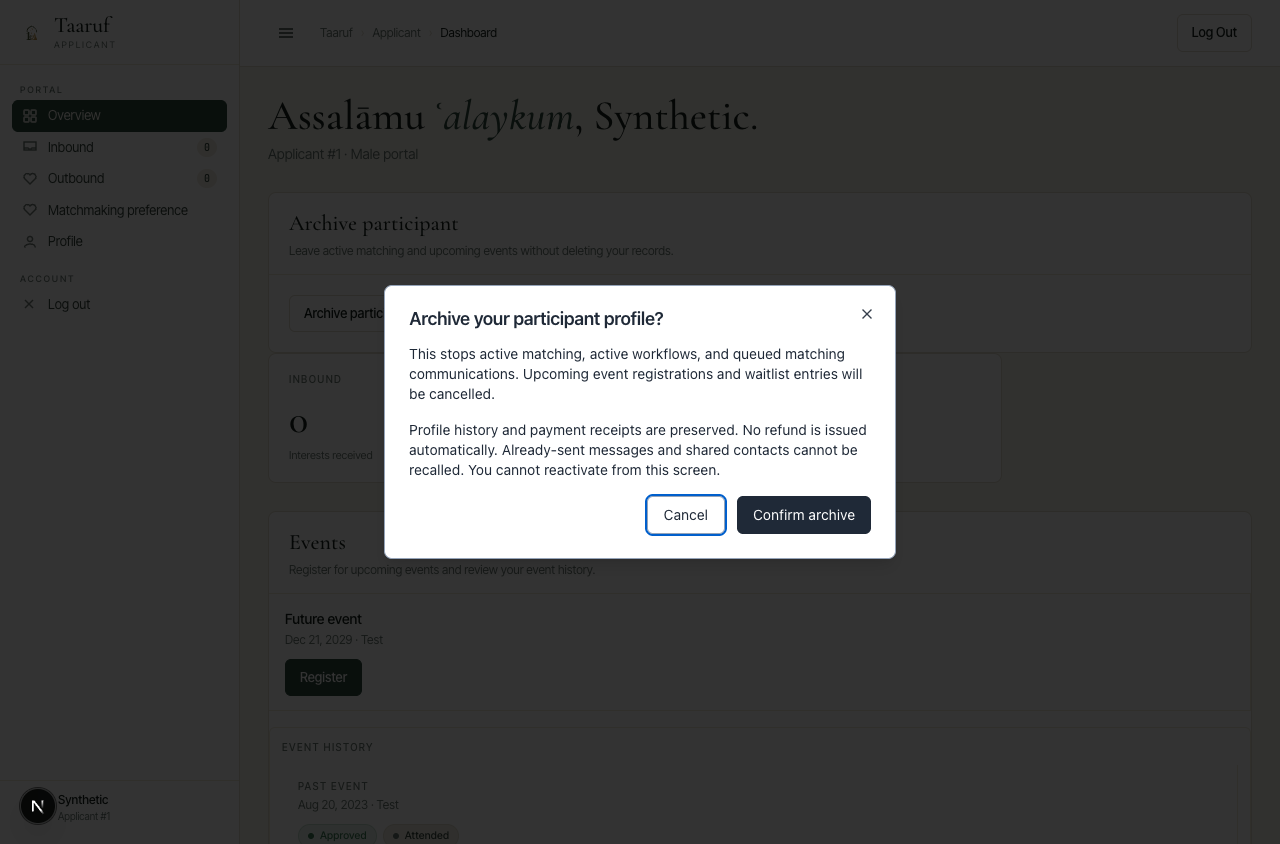
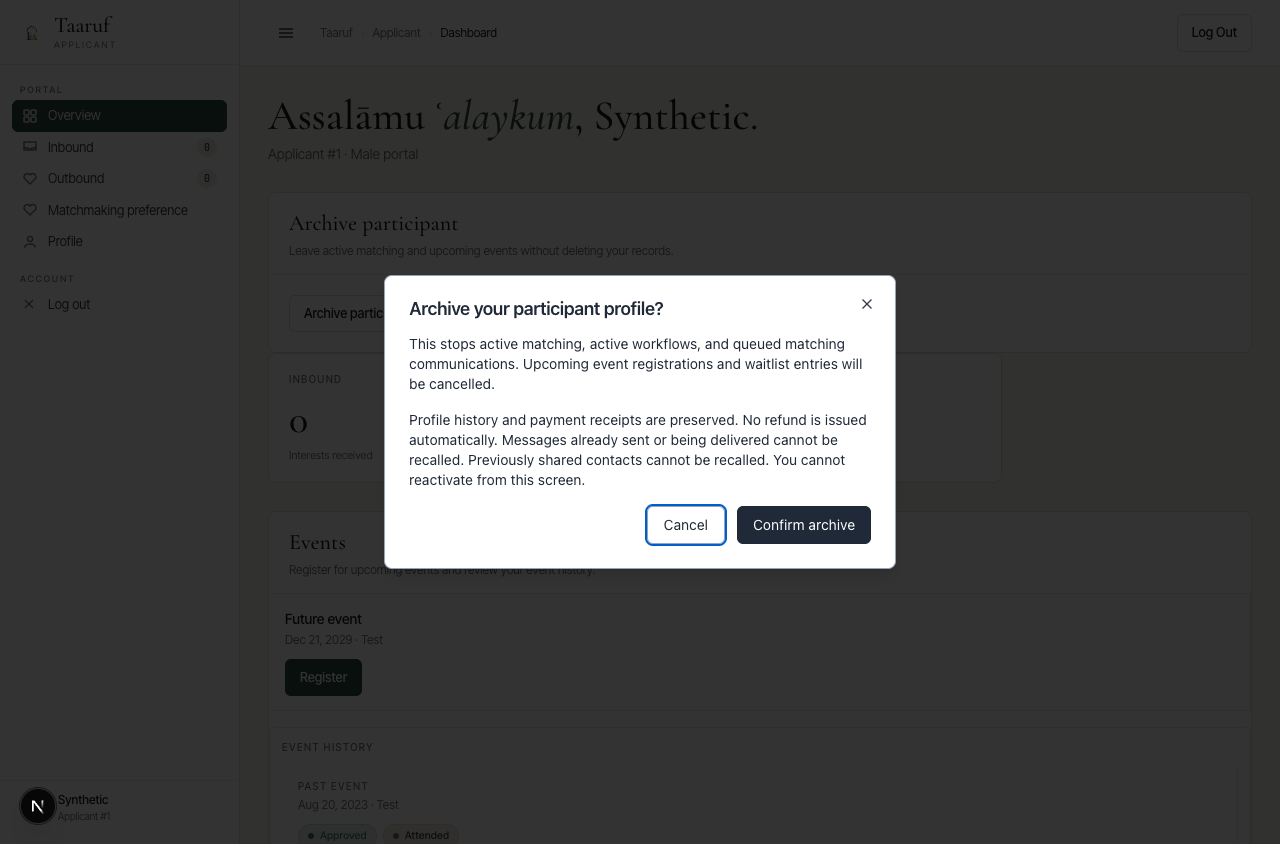
Disclose in-flight message boundary in archive confirmation

Changed region(s): [[0.2812, 0.3081, 0.7188, 0.6777]]

diff --git a/src/components/archive-participant.tsx b/src/components/archive-participant.tsx
@@ -47,7 +47,7 @@ export function ArchiveParticipant({ archivedAt, registrationId, name, onArchive
           <DialogContent onOpenAutoFocus={event => { event.preventDefault(); cancel.current?.focus(); }}>
             <DialogTitle>Archive {name ? name : "your participant profile"}?</DialogTitle>
             <DialogDescription className="text-foreground">This stops active matching, active workflows, and queued matching communications. Upcoming event registrations and waitlist entries will be cancelled.</DialogDescription>
-            <p className="text-sm">Profile history and payment receipts are preserved. No refund is issued automatically. Already-sent messages and shared contacts cannot be recalled. You cannot reactivate from this screen.</p>
+            <p className="text-sm">Profile history and payment receipts are preserved. No refund is issued automatically. Messages already sent or being delivered cannot be recalled. Previously shared contacts cannot be recalled. You cannot reactivate from this screen.</p>
             {error && <p role="alert" className="text-sm">{error}</p>}
             <div className="flex flex-wrap justify-end gap-3">
               <button ref={cancel} type="button" className="rounded-md border px-4 py-2 text-sm focus-visible:outline-2" disabled={busy} onClick={() => setOpen(false)}>Cancel</button>

diff --git a/e2e/archive-participant.spec.ts b/e2e/archive-participant.spec.ts
@@ -26,6 +26,7 @@ for (const width of [1280, 390]) {
     await expect(dialog).toContainText("queued matching communications");
     await expect(dialog).toContainText("waitlist entries will be cancelled");
     await expect(dialog).toContainText("No refund is issued automatically");
+    await expect(dialog).toContainText("Messages already sent or being delivered cannot be recalled");
     await page.screenshot({ path: "/tmp/archive-confirm-" + width + ".png" });
     await page.keyboard.press("Enter");
     await expect(dialog).not.toBeVisible(); expect(writes).toBe(0);
